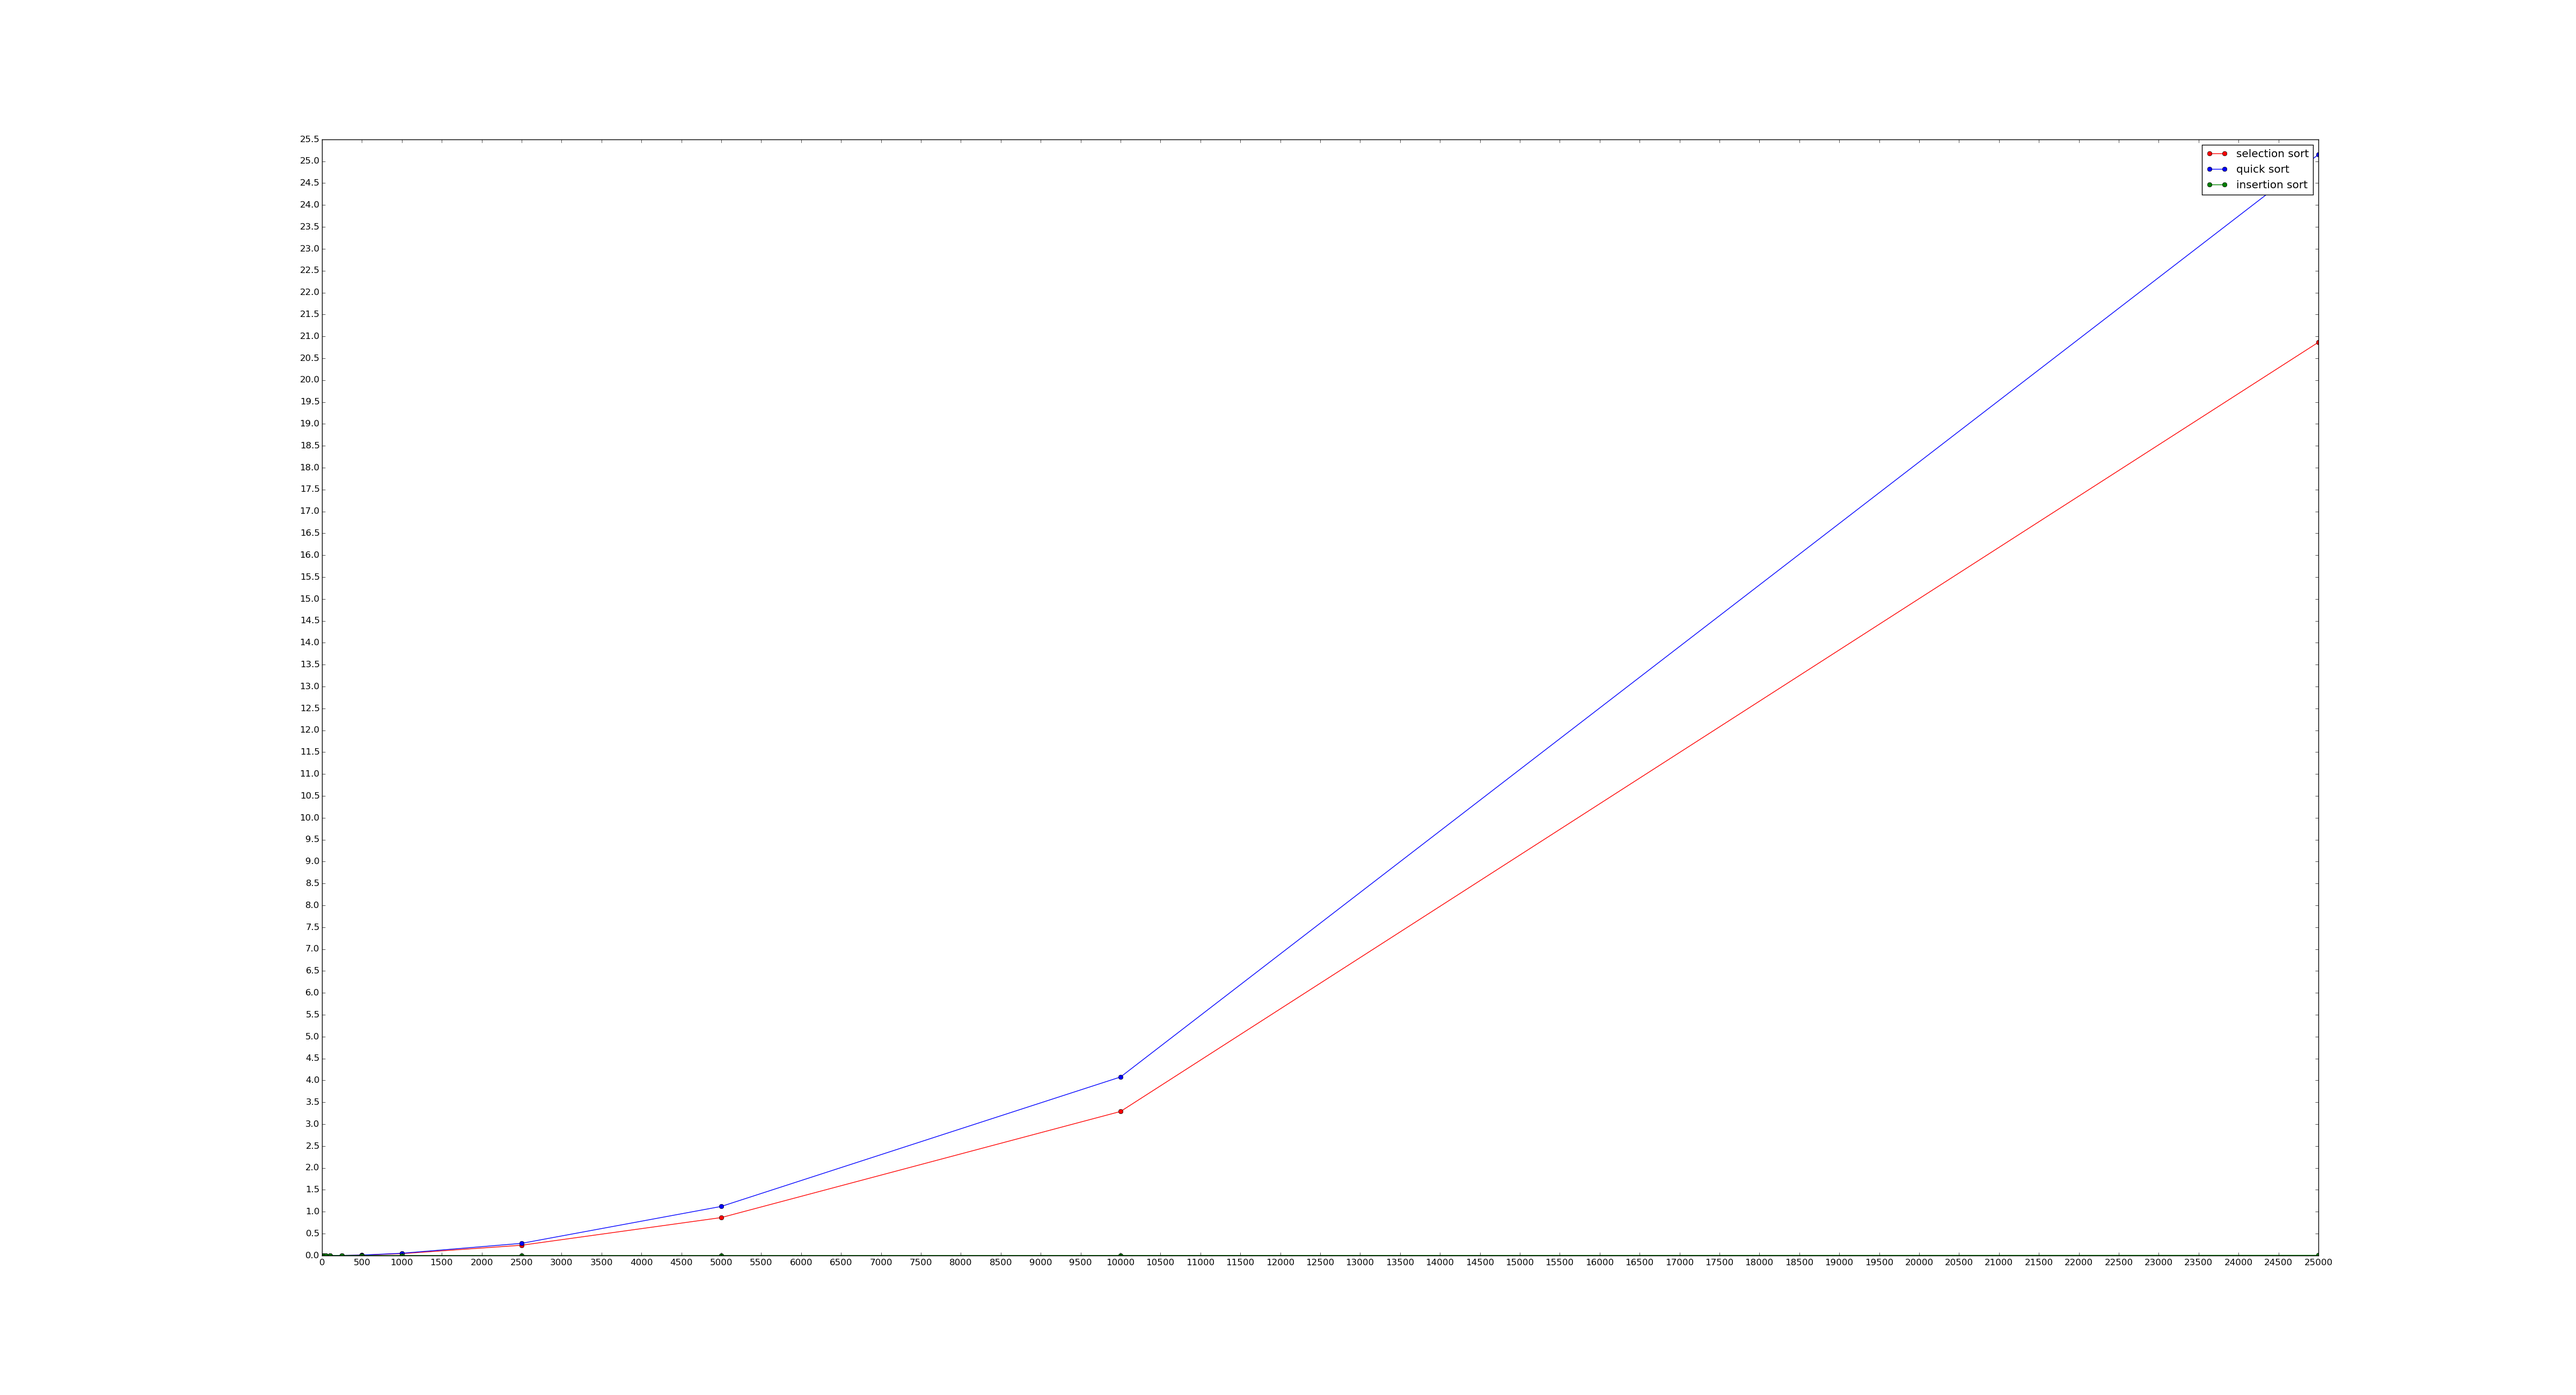
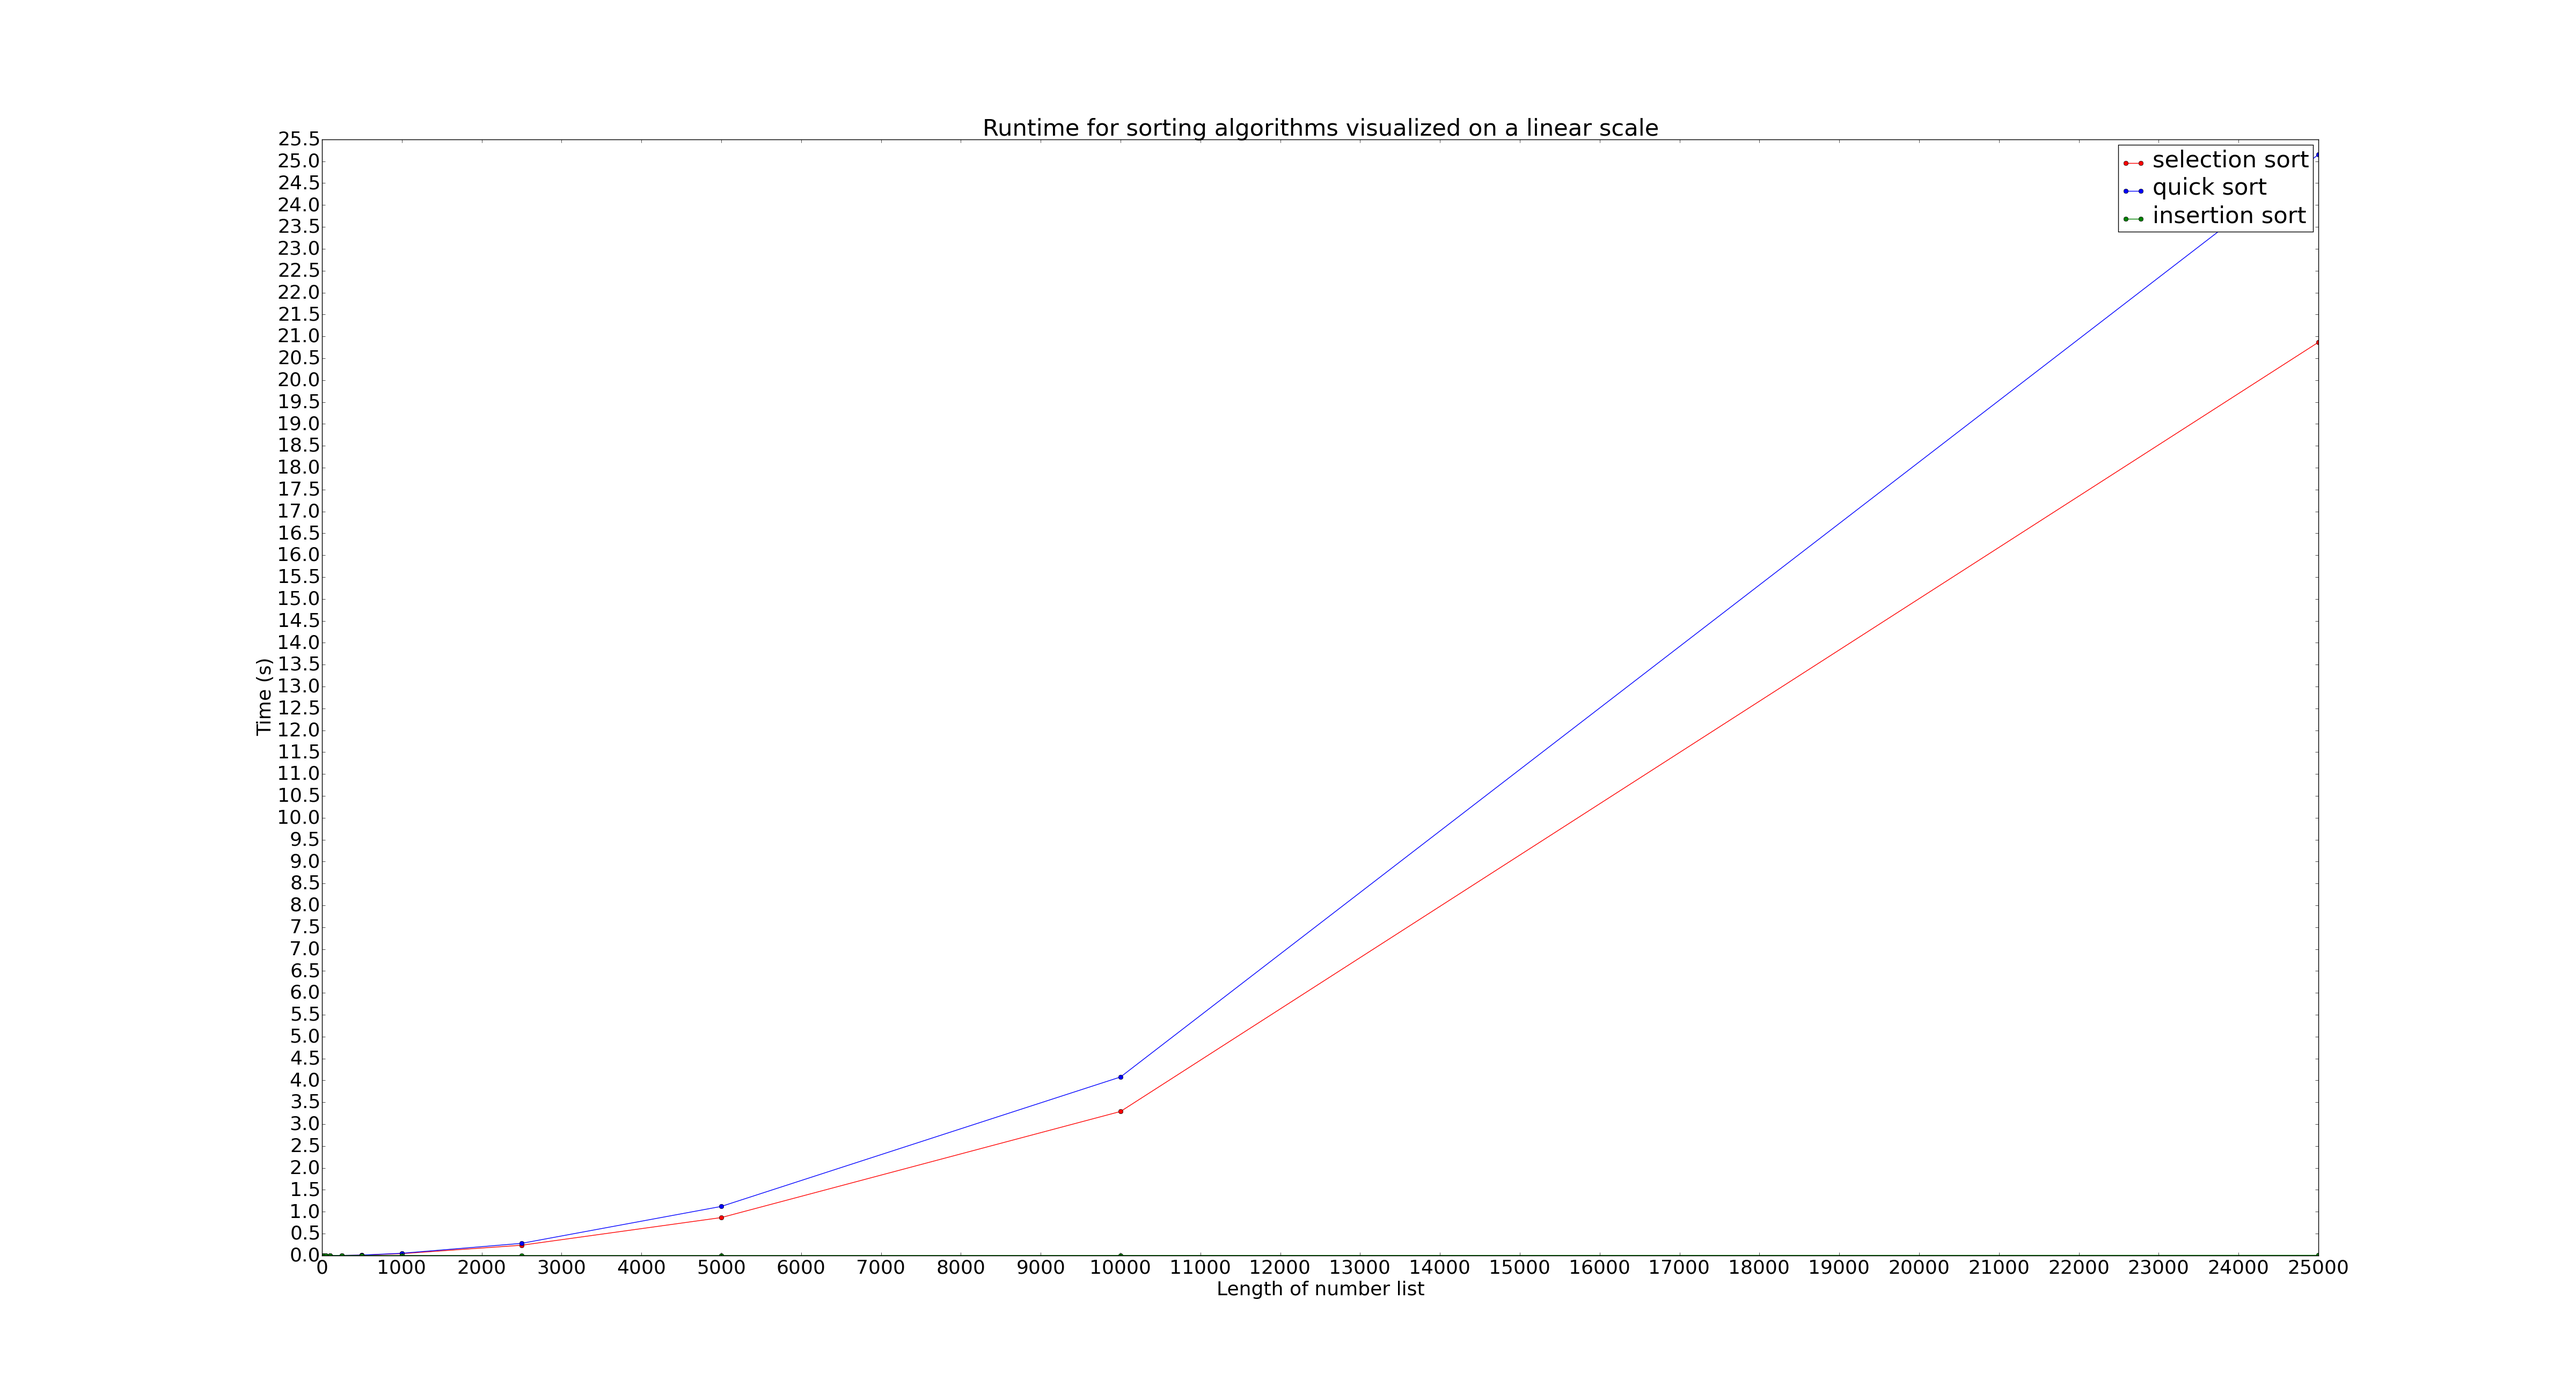
Fixed graphs

diff --git a/homework/1/test.py b/homework/1/test.py
@@ -127,25 +127,33 @@ def graph(sorted="random"):
     lengths = np.array(lengths)
 
     fix, ax = plt.subplots()
-    ax.xaxis.set_major_locator(mticks.MultipleLocator(500))
+    ax.xaxis.set_major_locator(mticks.MultipleLocator(1000))
     ax.yaxis.set_major_locator(mticks.MultipleLocator(0.5))
     selection_plot = plt.plot(lengths, selection, '-ro', label='selection sort')
     quick_plot = plt.plot(lengths, quick, '-bo', label='quick sort')
     insertion_plot = plt.plot(lengths, insertion, '-go', label='insertion sort')
+    plt.xlabel('Length of number list')
+    plt.ylabel('Time (s)')
+    plt.title('Runtime for sorting algorithms visualized on a linear scale')
     plt.legend()
+    plt.rcParams.update({'font.size': 26})
     plt.show()
 
     fix, ax = plt.subplots()
-    ax.xaxis.set_major_locator(mticks.MultipleLocator(500))
+    ax.xaxis.set_major_locator(mticks.MultipleLocator(1000))
     ax.yaxis.set_major_locator(mticks.MultipleLocator(0.5))
     plt.xscale('log')
     plt.yscale('log')
     selection_plot = plt.plot(lengths, selection, '-ro', label='selection sort')
     quick_plot = plt.plot(lengths, quick, '-bo', label='quick sort')
     insertion_plot = plt.plot(lengths, insertion, '-go', label='insertion sort')
+    plt.xlabel('Length of number list')
+    plt.ylabel('Time (s)')
+    plt.title('Runtime for sorting algorithms visualized on a logarithmic scale')
     plt.legend()
+    plt.rcParams.update({'font.size': 26})
     plt.show()
 
-graph(sorted='random')
+# graph(sorted='random')
 # graph(sorted='ascending')
-# graph(sorted='descending')
+graph(sorted='descending')
